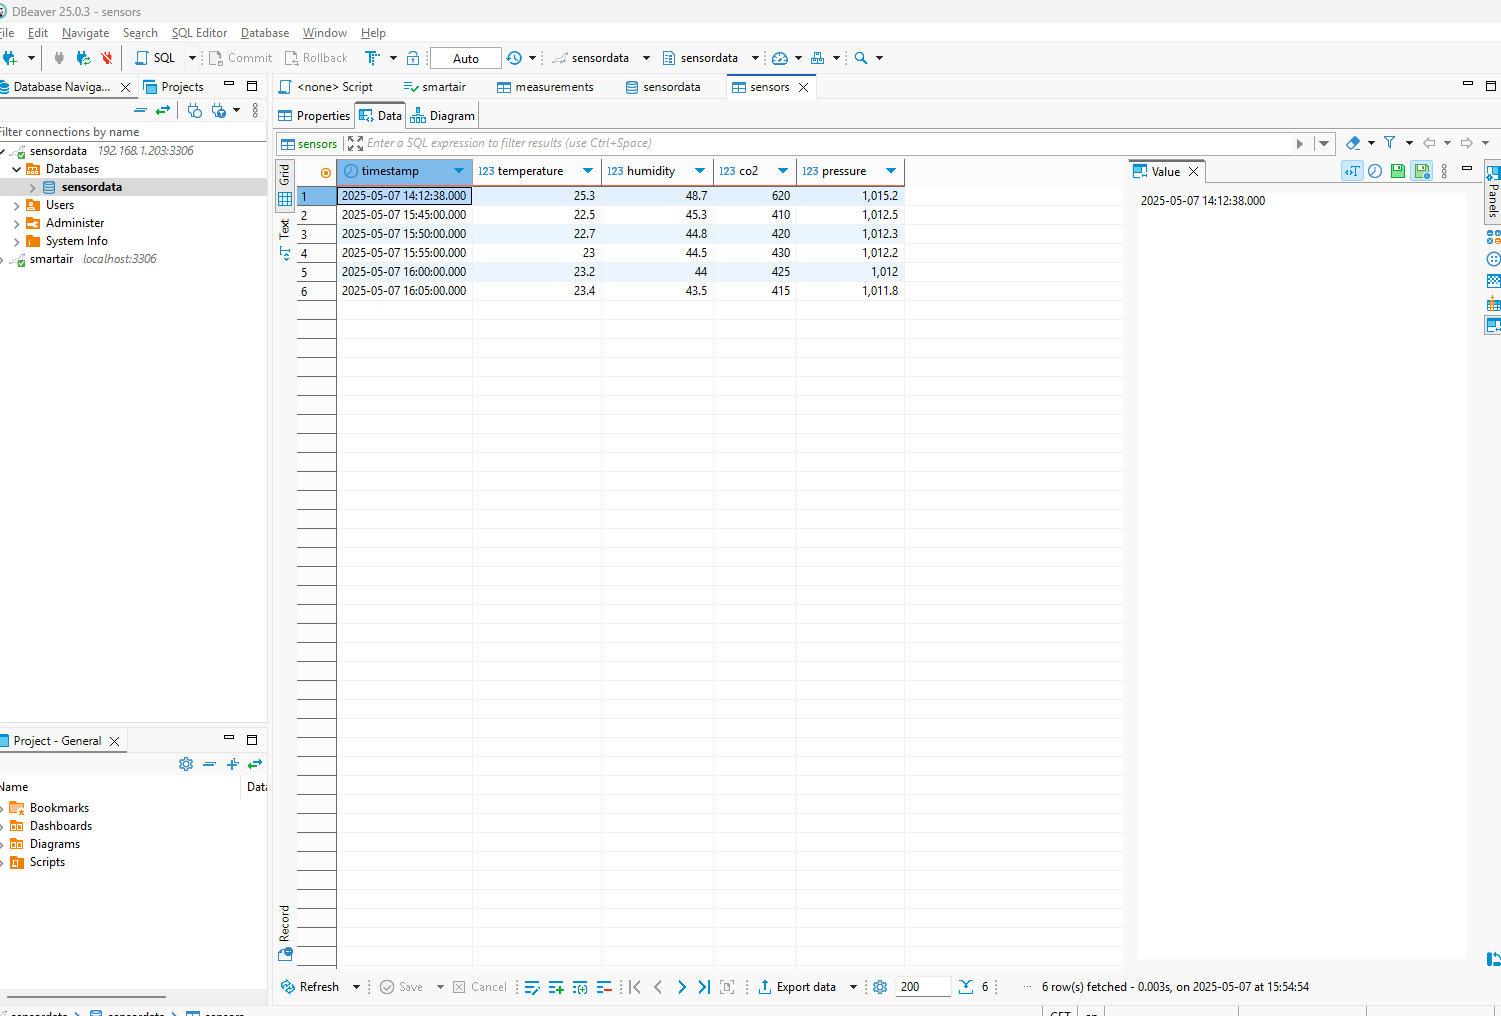
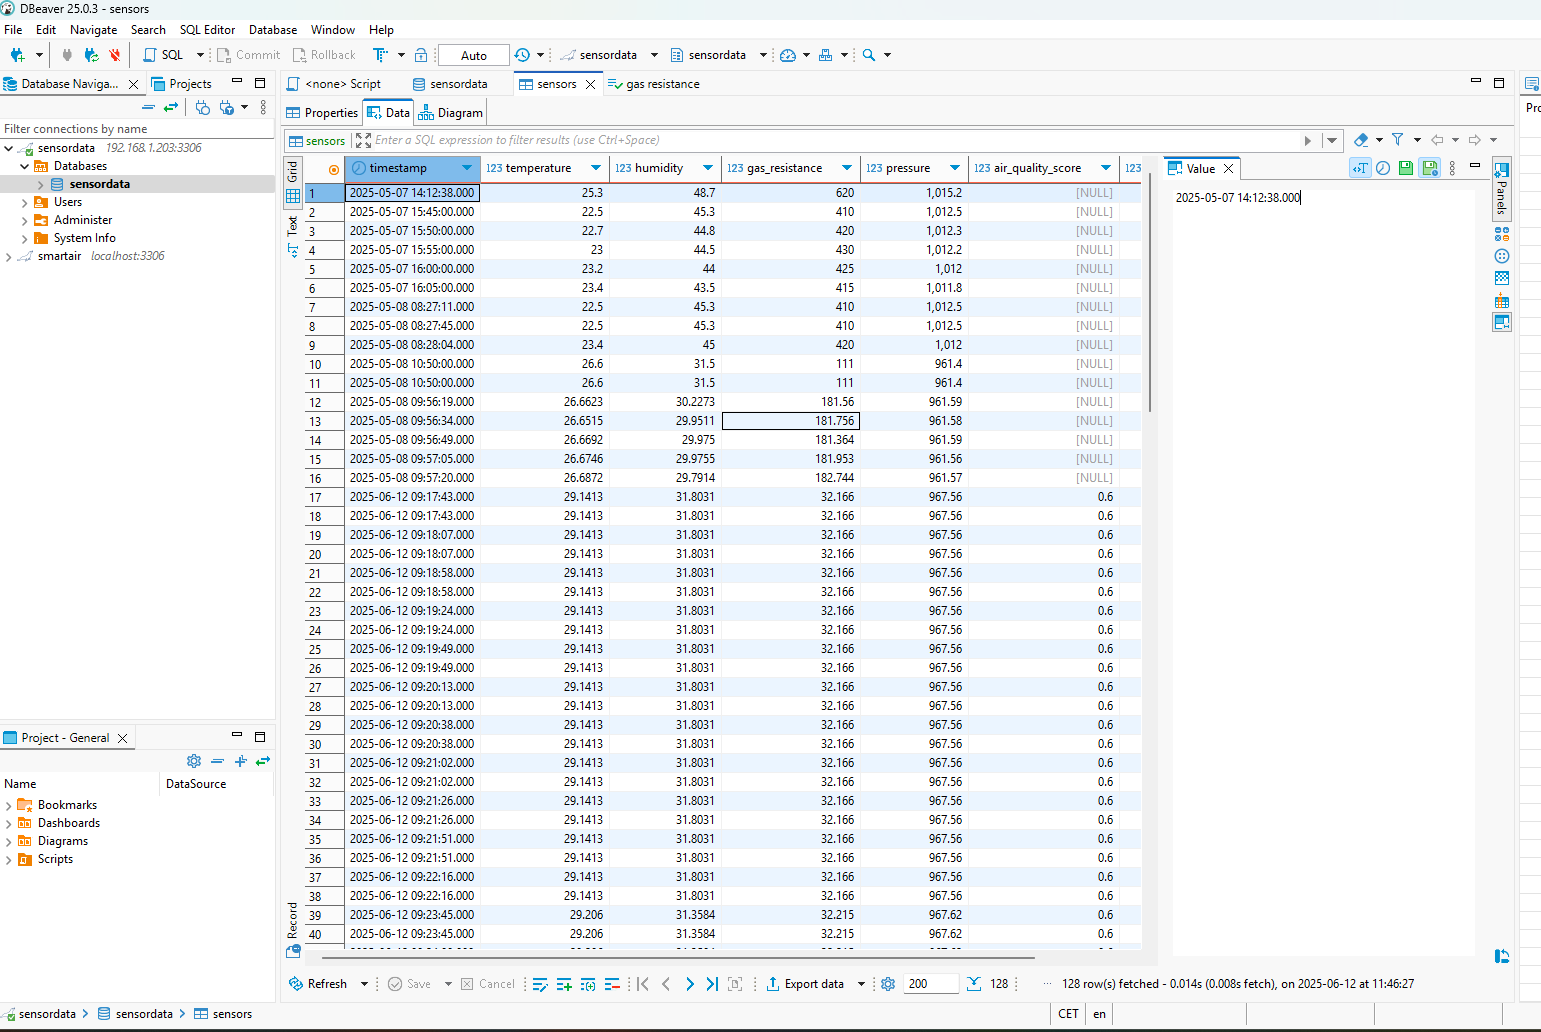
feat: new content from flotschi

Changed region(s): [[0.0, 0.0, 1.0, 1.0], [0.0, 0.7018, 0.0919, 0.8543], [0.9807, 0.061, 1.0, 0.122]]

diff --git a/src/App.jsx b/src/App.jsx
@@ -844,7 +844,19 @@ void loop() {
             A Raspberry Pi 4 starter kit was used, which included the board, a protective case, and necessary power and data cables. 
             The Raspberry Pi was mounted in the case, and peripherals such as power supply and networking cables were connected.
           </p>
-
+          <div className="grid grid-cols-2 gap-3">
+            <img
+              src="./ImagesFlo/raspberrysetup.jpg"
+              alt="Setup of the Raspberry Pi"
+              className="w-full h-auto object-cover"
+            />
+            <img
+              src="./ImagesFlo/Raspberrybootup.jpg"
+              alt="Raspberry Pi booting up"
+              className="w-full h-auto object-cover"
+            />
+          </div>
+          <br></br>
           <h4 className="text-lg font-semibold mb-2">Operating System Installation</h4>
           <p className="mb-4">
             The <strong>Raspberry Pi Imager</strong> tool was used to flash <strong>Raspberry Pi OS (64-bit)</strong> onto a microSD card 
@@ -853,7 +865,14 @@ void loop() {
             Predefining system settings such as user credentials, Wi-Fi, and SSH access is possible but was omitted due to SD card issues. 
             A fresh SD card and basic OS installation resolved these issues for us, so we woudn't be sztuck on the OS BootUp Screen.
           </p>
-
+          <div>
+            <img
+              src="./ImagesFlo/Imager.png"
+              alt="Raspberry Pi boot"
+              className="width: 75% h-auto object-cover"
+            />
+          </div>
+          <br></br>
           <h4 className="text-lg font-semibold mb-2">First Boot & Initial Setup</h4>
           <p className="mb-4">
             On first boot, the setup wizard was used to configure language, region, Wi-Fi, and user credentials. With those commands, system updates were installed:
@@ -871,7 +890,7 @@ sudo apt upgrade -y`}
           <pre className="bg-[#262626] text-white p-4 rounded text-sm overflow-x-auto">
             <code>ssh smartair@192.168.1.203</code>
           </pre>
-          <img src="images/ssh-connection.png" alt="SSH terminal session" className="rounded shadow my-4" />
+          <img src="ImagesFlo/ShellRaspberryPI.png" alt="SSH terminal session" className="rounded shadow my-4" />
 
           <h4 className="text-lg font-semibold mb-2">MariaDB Installation and Configuration</h4>
           <p className="mb-4">
@@ -894,8 +913,7 @@ CREATE USER 'sensoruser'@'%' IDENTIFIED BY 'sensorpass';
 GRANT ALL PRIVILEGES ON sensordata.* TO 'sensoruser'@'%';`}
             </code>
           </pre>
-          <img src="images/mariadb-setup.png" alt="MariaDB setup" className="rounded shadow my-4" />
-
+          
           <h4 className="text-lg font-semibold mb-2">Table Creation & Test Data</h4>
           <p className="mb-4">We then proceeded with creating a table for the sensor data:</p>
           <pre className="bg-[#262626] text-white p-4 rounded text-sm overflow-x-auto">
@@ -909,7 +927,7 @@ GRANT ALL PRIVILEGES ON sensordata.* TO 'sensoruser'@'%';`}
         );`}
             </code>
           </pre>
-          <p className="mb-4">For testing purposes we injected some test samples into the database just to get a visual feedback for grafan:</p>
+          <p className="mb-4">For testing purposes we injected some test samples into the database just to get a visual feedback for grafana:</p>
           <pre className="bg-[#262626] text-white p-4 rounded text-sm overflow-x-auto">
             <code>
         {`INSERT INTO sensors (timestamp, temperature, humidity, co2, pressure) VALUES
@@ -917,8 +935,26 @@ GRANT ALL PRIVILEGES ON sensordata.* TO 'sensoruser'@'%';`}
 (NOW(), 22.7, 44.8, 420, 1012.3);`}
             </code>
           </pre>
-          <img src="images/sensor-data-sample.png" alt="Example sensor data in MariaDB" className="rounded shadow my-4" />
+          
 
+          
+          
+          <p className="mb-4">What was still missing was a way the overall air quality and rounds per minutes, so we also additionally added an air_quality_score and fans_rpm to our sensordata database</p>
+          <pre className="bg-[#262626] text-white p-4 rounded text-sm overflow-x-auto">
+            <code>
+          {`ALTER TABLE sensors ADD COLUMN air_quality_score FLOAT;`}<br></br>
+          {`ALTER TABLE sensors ADD COLUMN fan_rpm INT;`}
+            </code>
+          </pre>
+          
+
+          <p className="mb-4">Finally our MariaDB looks like this in the picture below and was ready to receive data from our sensors to display it onto the Grafana dashboard:</p>
+          <img src="ImagesFlo/MariaDBfinal.png" alt="Example sensor data in MariaDB" className="rounded shadow my-4" />
+          <img
+            src="ImagesFlo/DBBeaverMariaDb.png"
+            alt="MariaDB setup"
+            className="rounded shadow my-4 w-300 mx-auto"
+          />
           <h4 className="text-lg font-semibold mb-2">MySQL Exporter for Metrics</h4>
           <p className="mb-4">That the data is then transfered to the Grafan CLoud we needed a MySQL Exporter to expose database metrics:</p>
           <pre className="bg-[#262626] text-white p-4 rounded text-sm overflow-x-auto">
